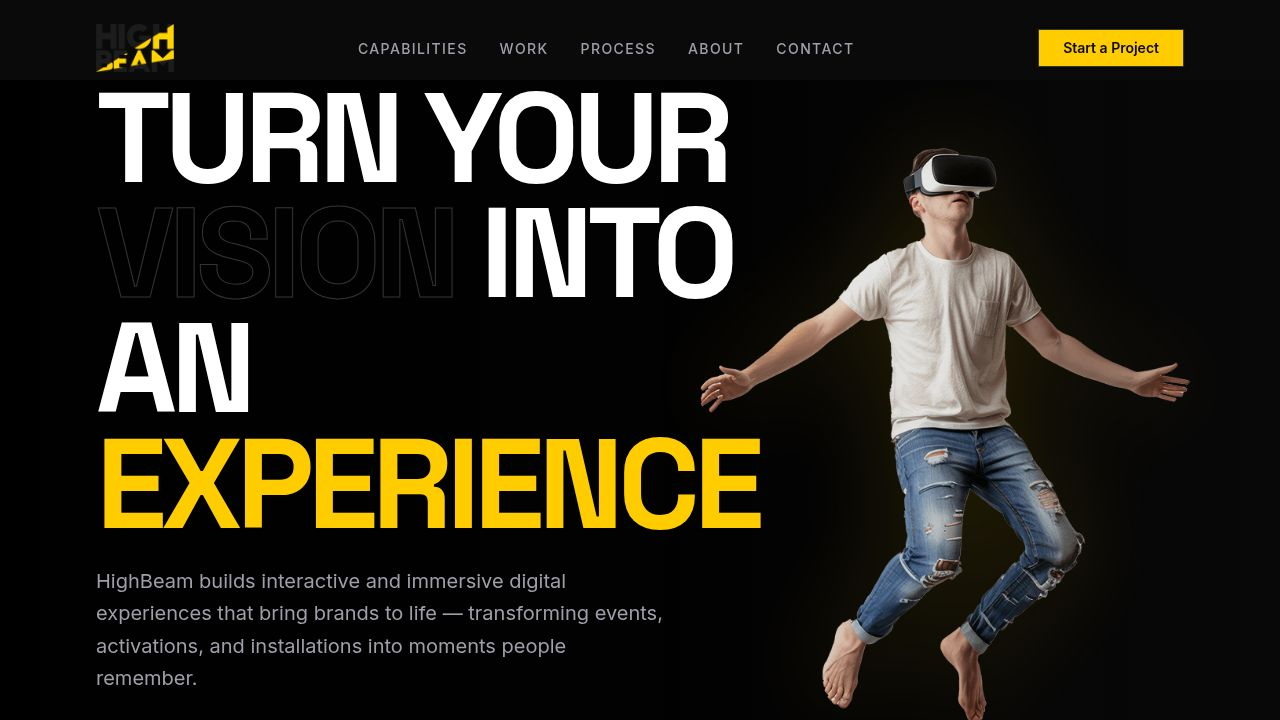
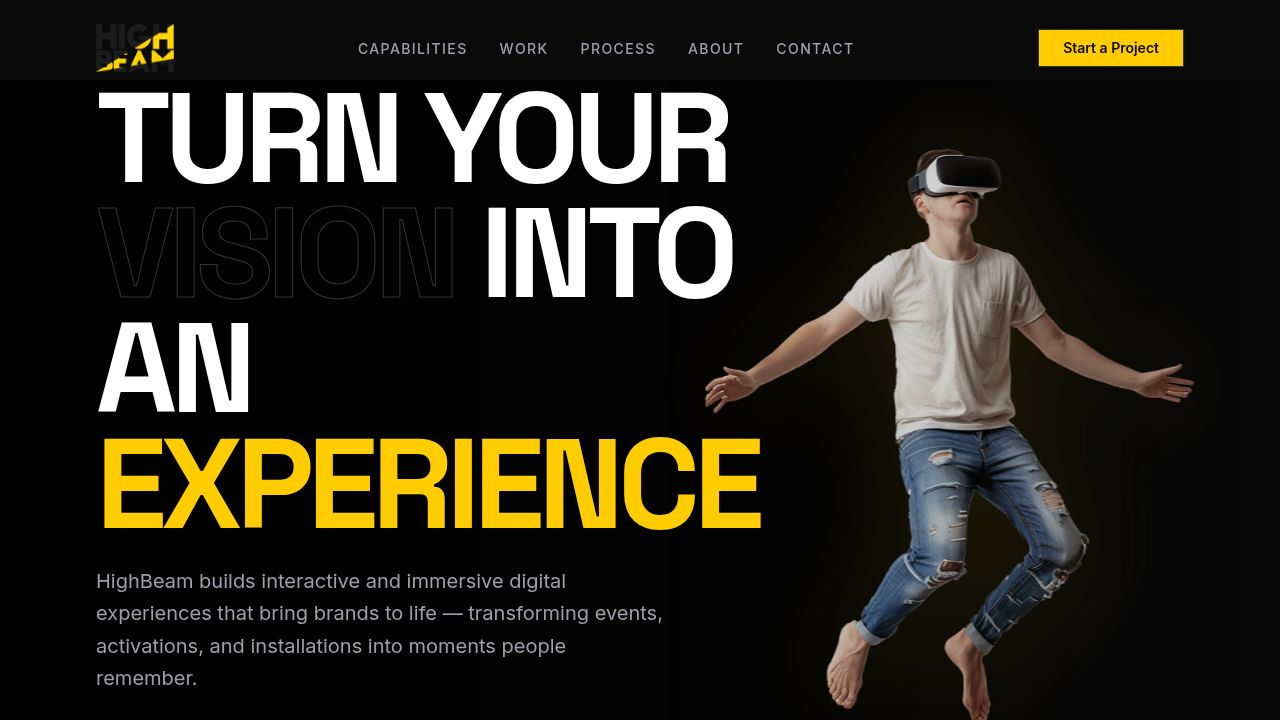
Update contact form to simulate email sending and improve user experience
Modify the contact form component to prevent opening the mail client upon submission. Instead, it now simulates email sending with a loading state and displays a success message, clearing the form afterward.

Replit-Commit-Author: Agent
Replit-Commit-Session-Id: 110e7742-35cf-4a37-9940-f8ac701b7a7c
Replit-Commit-Checkpoint-Type: full_checkpoint
Replit-Commit-Event-Id: a1b6513e-422d-406d-ba52-d5e38b451769
Replit-Commit-Screenshot-Url: https://storage.googleapis.com/screenshot-production-us-central1/c2a5a4cd-f82a-4b5d-9d42-e3c0d4943193/110e7742-35cf-4a37-9940-f8ac701b7a7c/9M82vmp
Replit-Helium-Checkpoint-Created: true

Changed region(s): [[0.5312, 0.2139, 0.875, 1.0], [0.875, 0.4889, 0.9375, 0.55]]

diff --git a/client/src/components/sections/contact.tsx b/client/src/components/sections/contact.tsx
@@ -5,6 +5,7 @@ import { Textarea } from "@/components/ui/textarea";
 import { Select, SelectContent, SelectItem, SelectTrigger, SelectValue } from "@/components/ui/select";
 import { zodResolver } from "@hookform/resolvers/zod";
 import { useForm } from "react-hook-form";
+import { useState } from "react";
 import * as z from "zod";
 import {
   Form,
@@ -27,6 +28,7 @@ const formSchema = z.object({
 
 export function Contact() {
   const { toast } = useToast();
+  const [isSubmitting, setIsSubmitting] = useState(false);
   const form = useForm<z.infer<typeof formSchema>>({
     resolver: zodResolver(formSchema),
     defaultValues: {
@@ -38,14 +40,21 @@ export function Contact() {
     },
   });
 
-  function onSubmit(values: z.infer<typeof formSchema>) {
-    console.log(values);
-    window.location.href = `mailto:info@highbeam.digital?subject=Inquiry from ${values.name} - ${values.company}&body=Name: ${values.name}%0D%0ACompany: ${values.company}%0D%0AEmail: ${values.email}%0D%0APhone: ${values.phone || 'N/A'}%0D%0A%0D%0ADescription:%0D%0A${values.description}`;
+  async function onSubmit(values: z.infer<typeof formSchema>) {
+    setIsSubmitting(true);
+    
+    // Simulate network delay
+    await new Promise(resolve => setTimeout(resolve, 1500));
+    
+    console.log("Form submitted:", values);
+    
     toast({
-      title: "Opening Email Client",
-      description: "Drafting your inquiry to info@highbeam.digital",
+      title: "Message Sent",
+      description: "Thanks for reaching out! We'll be in touch shortly.",
     });
+    
     form.reset();
+    setIsSubmitting(false);
   }
 
   return (
@@ -143,8 +152,12 @@ export function Contact() {
                 )}
                 />
 
-                <Button type="submit" className="w-full bg-primary text-black font-bold h-14 text-lg hover:bg-white hover:scale-[1.01] transition-all rounded-none">
-                    Send Inquiry
+                <Button 
+                    type="submit" 
+                    disabled={isSubmitting}
+                    className="w-full bg-primary text-black font-bold h-14 text-lg hover:bg-white hover:scale-[1.01] transition-all rounded-none disabled:opacity-70 disabled:cursor-not-allowed"
+                >
+                    {isSubmitting ? "Sending..." : "Send Inquiry"}
                 </Button>
             </form>
             </Form>
